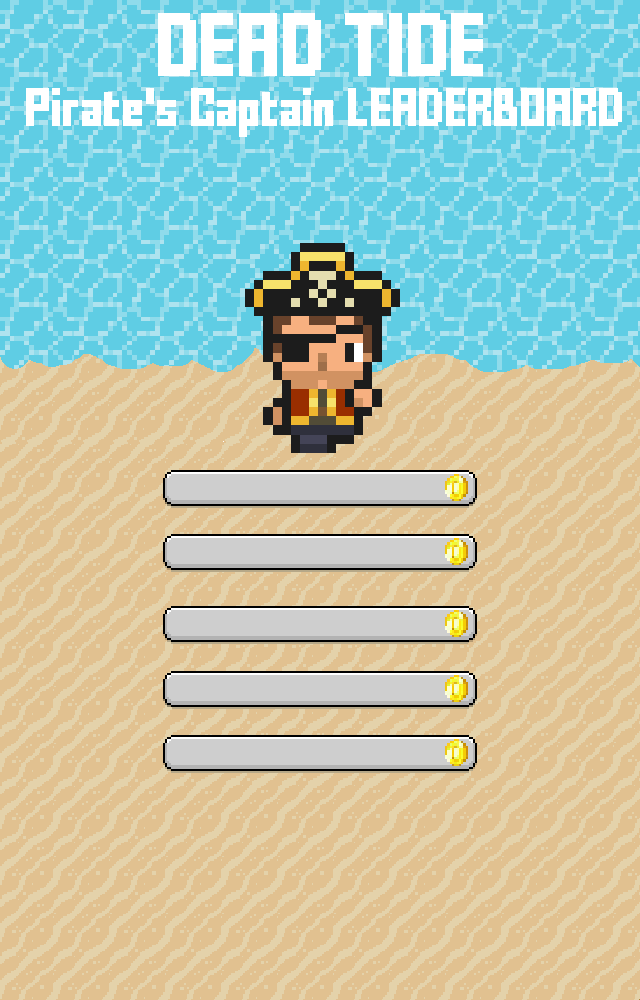
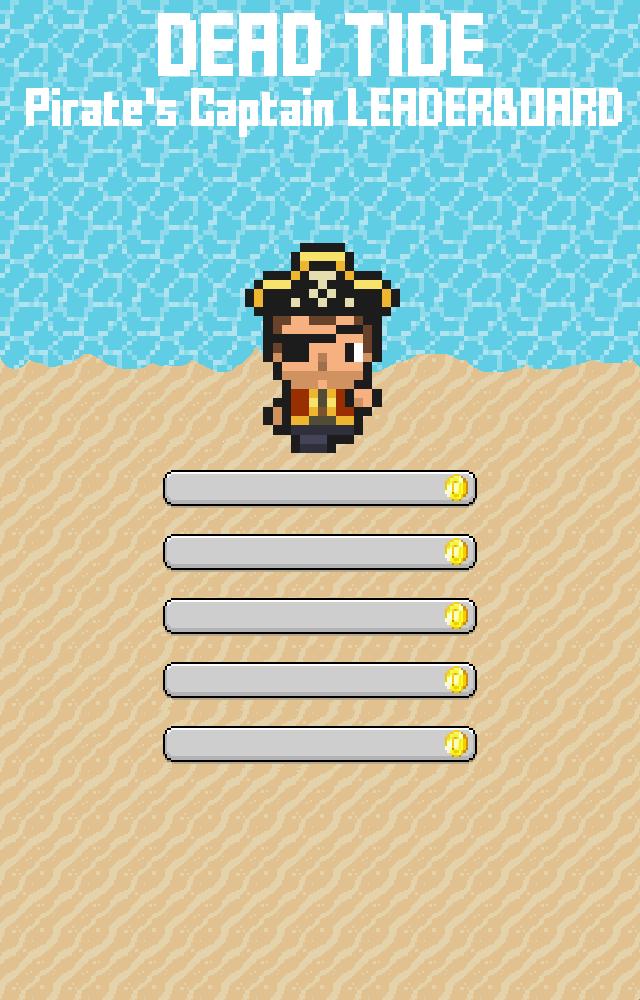
Added the 5 best scores to the leaderboard page

Changed region(s): [[0.25, 0.589, 0.75, 0.775]]

diff --git a/leaderboard_page.py b/leaderboard_page.py
@@ -1,6 +1,7 @@
 import pygame
 import pygame_gui
 from game_manager import GameManager
+import json
 
 FPS = 60
 
@@ -9,7 +10,32 @@ class LeaderboardPage:
         pygame.init()
         self.screen = pygame.display.set_mode((640, 1000), pygame.NOFRAME)
         self.background = pygame.image.load("images/leaderboard.png").convert_alpha()
+        self.font = pygame.font.Font("fonts/Minecraft.ttf", 25)
+        self.new_cursor = pygame.image.load("images/mouse_cursor.png").convert_alpha()
+        pygame.mouse.set_visible(False)
 
+        
+    def display_leaderboard(self):
+        try:
+            with open("leaderboard.json", "r") as file:
+                leaderboard_data = json.load(file)
+        except FileNotFoundError:
+            leaderboard_data = []
+
+        leaderboard_data.sort(key=lambda x: x["score"], reverse=True)
+
+        for i, entry in enumerate(leaderboard_data[:5]):  # Display top 5 scores
+            username = entry["username"]
+            score = entry["score"]
+            username_text = self.font.render(username, True, (255, 255, 255))
+            score_text = self.font.render(str(score), True, (255, 255, 255))
+
+            username_position = (180, 477 + i * 63)  
+            score_position = (360, 477 + i * 63)     
+
+            self.screen.blit(username_text, username_position)
+            self.screen.blit(score_text, score_position)
+    
     def run(self):
         clock = pygame.time.Clock()
         MANAGER = pygame_gui.UIManager((640, 1000), "theme.json")
@@ -25,6 +51,7 @@ class LeaderboardPage:
         
         running = True
         while running:
+            pos = pygame.mouse.get_pos()
             for event in pygame.event.get():
                 if event.type == pygame.QUIT:
                     running = False
@@ -40,10 +67,12 @@ class LeaderboardPage:
                 MANAGER.process_events(event)
             MANAGER.update(clock.tick(FPS))
             self.screen.blit(self.background, (0, 0))
+            self.display_leaderboard()
             MANAGER.draw_ui(self.screen)
+            self.screen.blit(self.new_cursor, pos)
             pygame.display.flip()
         pygame.quit()
 
-if __name__ == "__main__":
-    leaderboard_page = LeaderboardPage()
-    leaderboard_page.run()
+# if __name__ == "__main__":
+#     leaderboard_page = LeaderboardPage()
+#     leaderboard_page.run()

diff --git a/game_over_page.py b/game_over_page.py
@@ -2,6 +2,7 @@ import pygame
 import pygame_gui
 from game_manager import GameManager
 from level1 import Level1
+import json
 
 FPS = 60
 
@@ -13,13 +14,26 @@ class GameOverPage:
         self.overlay_surface.set_alpha(58)
         self.total_score = total_score
         self.username = username
-        self.font = pygame.font.Font("Fonts/Minecraft.ttf", 25)        
+        self.font = pygame.font.Font("Fonts/Minecraft.ttf", 25)
 
-  
+        self.leaderboard_file = "leaderboard.json"        
+
         self.game_over = pygame.image.load("images/game_over.png").convert_alpha() 
         pygame.mouse.set_visible(True)
         self.coin_image = pygame.transform.scale(pygame.image.load("images/yellow_coin4.png").convert_alpha(), (40,40))
 
+    def save_to_leaderboard(self):
+        try:
+            with open(self.leaderboard_file, "r") as file:
+                leaderboard_data = json.load(file)
+        except FileNotFoundError:
+            leaderboard_data = []
+
+        leaderboard_data.append({"username": self.username, "score": self.total_score})
+
+        with open(self.leaderboard_file, "w") as file:
+            json.dump(leaderboard_data, file)
+    
     def run(self):
         clock = pygame.time.Clock()
         MANAGER = pygame_gui.UIManager(self.parent_screen.get_size(), "theme.json")
@@ -70,7 +84,8 @@ class GameOverPage:
                         self.running = False  # Stop running if ESC key is pressed
                 elif event.type == pygame_gui.UI_BUTTON_PRESSED:
                         if event.ui_element == quit_button:
-                            print("Yes button clicked")
+                            print("Quit button clicked")
+                            self.save_to_leaderboard()
                             game_manager.show_landing_page() 
 
                 MANAGER.process_events(event)
